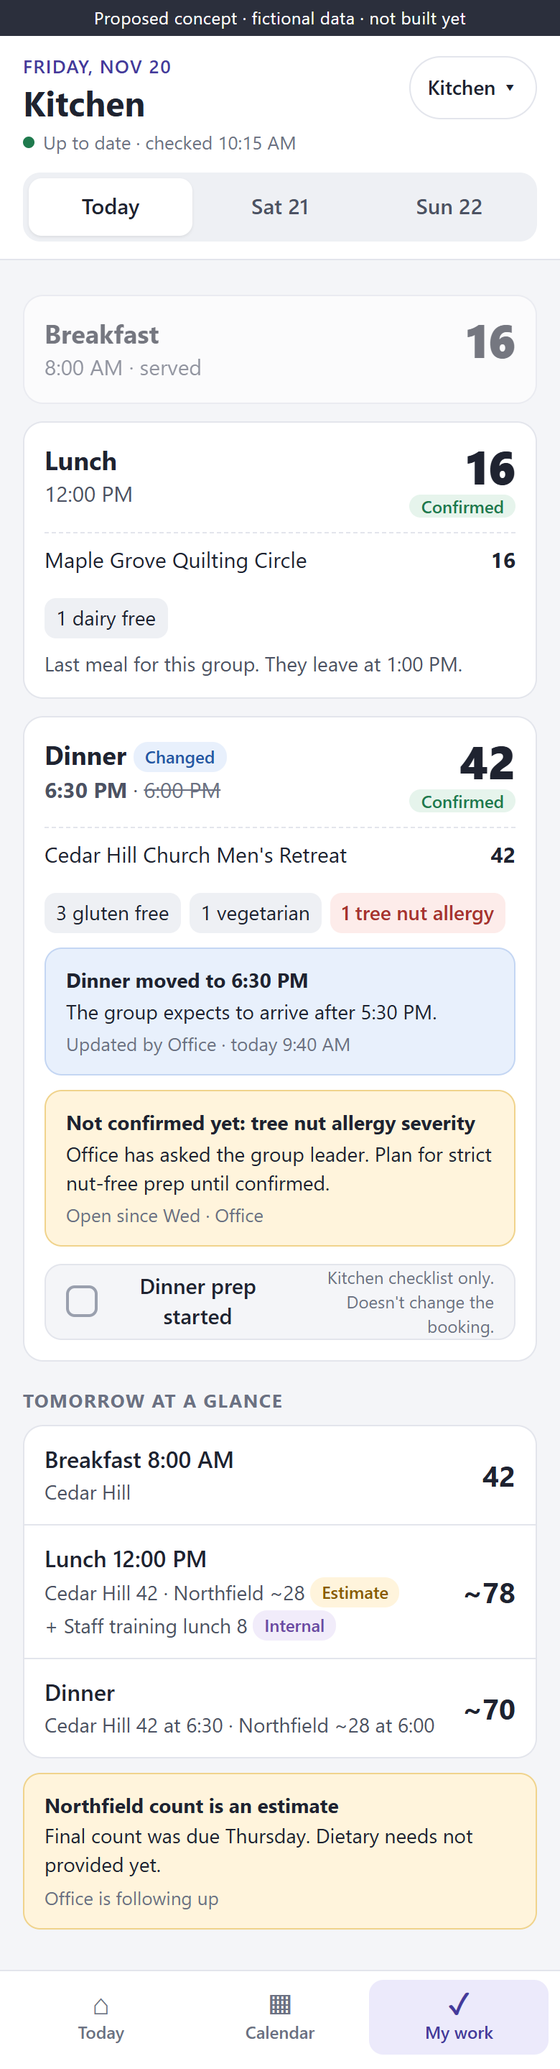
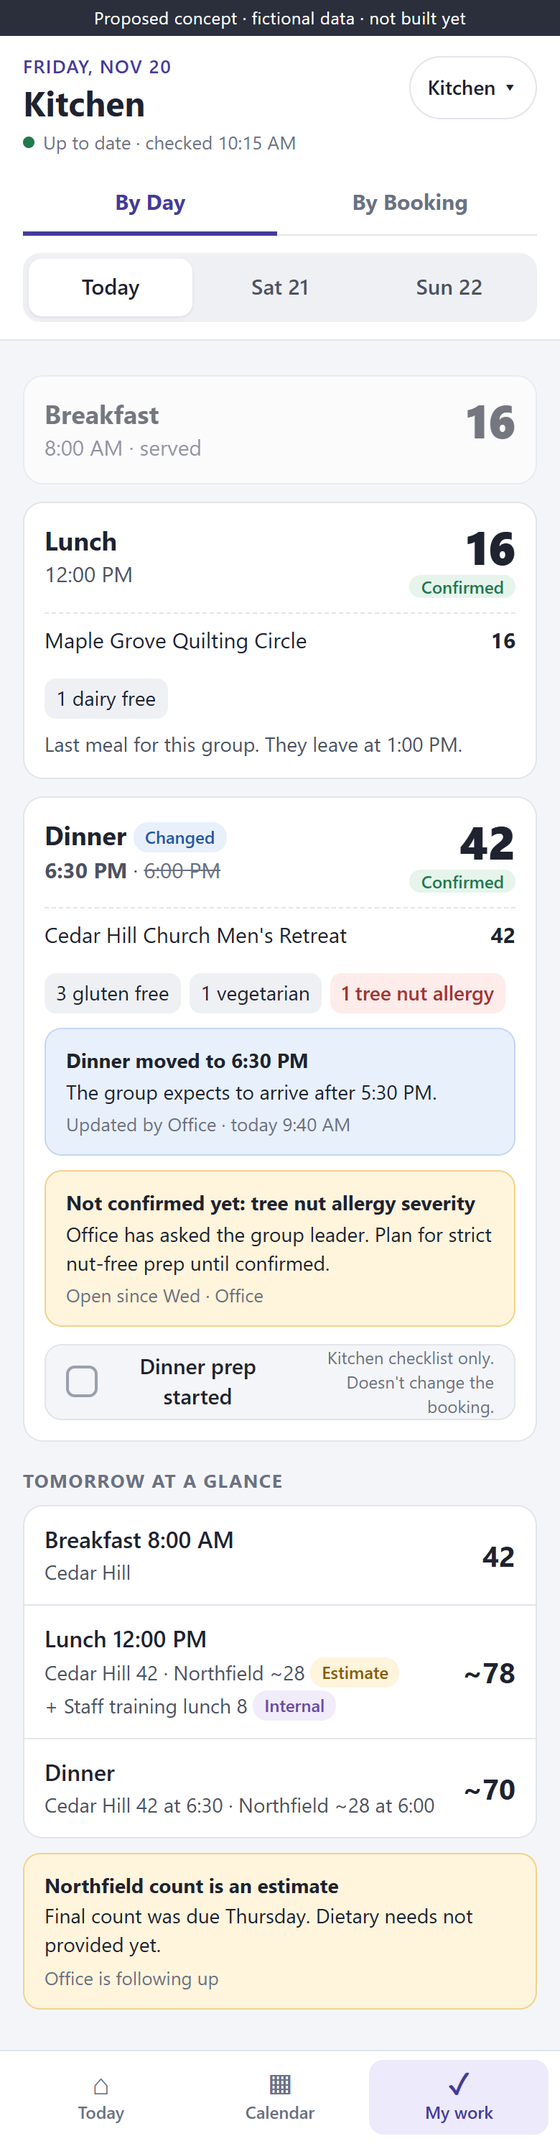
Improve proposal kitchen content

diff --git a/docs/proposals/staff-app-prototype/index.html b/docs/proposals/staff-app-prototype/index.html
@@ -99,6 +99,82 @@
   .facts .v { font-size: 16px; font-weight: 600; margin-top: 2px; }
   .locked { font-size: 13px; color: var(--text-3); margin-top: 14px; padding: 10px 12px; border: 1px dashed var(--line); border-radius: 10px; }
 
+  /* Kitchen view switch: By Day | By Booking */
+  .viewtog { display: flex; gap: 4px; margin-top: 12px; border-bottom: 1px solid var(--line); }
+  .viewtog a { flex: 1; text-align: center; min-height: 44px; display: grid; place-items: center; font-weight: 700; font-size: 15px;
+    color: var(--text-3); text-decoration: none; border-bottom: 3px solid transparent; margin-bottom: -1px; }
+  .viewtog a.on { color: var(--brand); border-bottom-color: var(--brand); }
+
+  /* Kitchen By Booking: reuses Booking Overview's Meals layout (Meal Service Plan table + Dietary Alerts) */
+  .pick { display: grid; grid-template-columns: 1fr 1fr; gap: 8px; }
+  .pick a { display: block; text-decoration: none; color: var(--text); background: var(--card); border: 1px solid var(--line); border-radius: 12px; padding: 10px 12px; min-height: 64px; }
+  .pick a .t { font-weight: 700; font-size: 15px; line-height: 1.25; }
+  .pick a .s { font-size: 13px; color: var(--text-2); margin-top: 2px; }
+  .pick a.on { border: 2px solid var(--brand); background: var(--brand-2); padding: 9px 11px; }
+  .gcard { background: var(--card); border: 1px solid var(--line); border-radius: 14px; padding: 14px; margin-top: 14px; }
+  .gcard h3 { font-size: 20px; line-height: 1.25; margin: 0; }
+  .gcard .stay { font-size: 17px; font-weight: 700; margin-top: 6px; }
+  .gcard .sub { font-size: 14px; color: var(--text-2); margin-top: 2px; }
+  .gcard .kv { display: flex; flex-wrap: wrap; gap: 6px 16px; margin-top: 10px; font-size: 14px; color: var(--text-2); }
+  .gcard .kv b { color: var(--text); }
+  .bo-summary { display: none; }
+  .bo-row { display: flex; flex-direction: column; gap: 12px; margin-top: 12px; }
+  .bo-panel { background: var(--card); border: 1px solid var(--line); border-radius: 14px; padding: 14px; }
+  .bo-panel h4 { margin: 0; font-size: 17px; }
+  .bo-panel .p { margin: 2px 0 10px; font-size: 13px; color: var(--text-3); }
+  .bo-diet { order: -1; border: 2px solid #e6c46f; background: #fffcf5; }
+  .bo-head, .bo-drow { display: grid; grid-template-columns: minmax(0,1fr) 4.5rem; gap: 10px; align-items: center; }
+  .bo-head { font-size: 12px; font-weight: 700; text-transform: uppercase; letter-spacing: .04em; color: #7a8597; padding-bottom: 6px; border-bottom: 1px solid #e8edf3; }
+  .bo-head span:last-child, .bo-drow strong { justify-self: end; }
+  .bo-drow { padding: 10px 0; border-bottom: 1px solid #edf1f5; font-size: 17px; }
+  .bo-drow strong { font-size: 19px; }
+  .bo-drow.allergy { background: var(--red-bg); color: var(--red); font-weight: 700; margin: 0 -8px; padding: 10px 8px; border-radius: 8px; border-bottom: 0; }
+  .bo-drow.allergy .tag { background: var(--red); color: #fff; margin-left: 6px; }
+  .bo-dnote { margin-top: 12px; padding: 10px 12px; border-left: 4px solid #d5a63f; background: #fbf8f1; border-radius: 8px; }
+  .bo-dnote strong { display: block; color: #94681f; font-size: 15px; margin-bottom: 2px; }
+  .bo-dnote p { margin: 0; font-size: 15px; line-height: 1.45; }
+  .bo-table { width: 100%; border-collapse: collapse; table-layout: fixed; }
+  .bo-table th { font-size: 12px; font-weight: 700; text-transform: uppercase; letter-spacing: .03em; color: #7a8597; text-align: center; padding: 6px 2px 8px; border-bottom: 1px solid #e8edf3; vertical-align: bottom; }
+  .bo-table th small { display: block; text-transform: none; letter-spacing: 0; font-size: 13px; color: var(--text); font-weight: 700; margin-top: 2px; }
+  .bo-table th .tag { text-transform: none; letter-spacing: 0; margin-top: 3px; }
+  .bo-table th:first-child, .bo-table td:first-child { text-align: left; width: 26%; }
+  .bo-table td { text-align: center; padding: 10px 2px; border-bottom: 1px solid #edf1f5; font-size: 15px; }
+  .bo-table td:first-child { font-weight: 700; line-height: 1.25; }
+  .bo-table td:first-child .dm span { display: block; font-weight: 500; color: var(--text-2); font-size: 14px; }
+  .bo-table .dd { display: none; }
+  .bo-table tr.today td { background: var(--brand-2); }
+  .chip { display: inline-flex; align-items: center; justify-content: center; min-height: 32px; min-width: 40px; padding: 0 10px; border-radius: 999px; background: #edf3e8; color: #415235; font-weight: 700; font-size: 16px; }
+  .chip.din { background: #f6eddc; color: #8a6622; }
+  .chip .w { display: none; }
+  .dash { color: #9aa3b2; font-weight: 600; }
+  .vh { position: absolute; width: 1px; height: 1px; overflow: hidden; clip: rect(0 0 0 0); white-space: nowrap; }
+  .bo-foot { font-size: 14px; color: var(--text-2); margin-top: 10px; }
+  .bo-notes p { margin: 0; font-size: 15px; }
+  .source { font-size: 13px; color: var(--text-3); margin-top: 14px; padding: 10px 12px; border: 1px dashed var(--line); border-radius: 10px; }
+
+  @media (min-width: 900px) {
+    #kitchen-booking header .inner, #kitchen-booking main { max-width: 1240px; margin: 0 auto; }
+    #kitchen-booking .viewtog { max-width: 360px; }
+    #kitchen-booking header .inner { padding: 0 8px; }
+    #kitchen-booking main { display: grid; grid-template-columns: 280px minmax(0,1fr); gap: 20px; padding: 16px 24px 24px; align-items: start; }
+    #kitchen-booking .pick { grid-template-columns: 1fr; }
+    #kitchen-booking .gcard { margin-top: 0; }
+    #kitchen-booking nav { display: none; }
+    .bo-summary { display: grid; grid-template-columns: 1fr 1fr 1fr 2.2fr; margin-top: 12px; background: var(--card); border: 1px solid var(--line); border-radius: 14px; }
+    .bo-summary > div { padding: 12px 16px; border-left: 1px solid var(--line); }
+    .bo-summary > div:first-child { border-left: 0; }
+    .bo-summary small { display: block; font-size: 13px; font-weight: 600; color: var(--text-3); }
+    .bo-summary strong { font-size: 20px; }
+    .bo-summary span { display: block; font-size: 13px; color: var(--text-2); }
+    .bo-row { display: grid; grid-template-columns: 1.15fr 1fr; align-items: start; }
+    .bo-diet { order: 0; }
+    .bo-table td:first-child { width: 30%; }
+    .bo-table .dm { display: none; } .bo-table .dd { display: inline; }
+    .chip .w { display: inline; } .chip .c { display: none; }
+    .chip { font-size: 14px; }
+    .bo-mobile-only { display: none; }
+  }
+
   nav { position: sticky; bottom: 0; margin-top: 16px; background: var(--card); border-top: 1px solid var(--line); display: flex; padding: 6px 8px 10px; z-index: 3; }
   nav a { flex: 1; text-align: center; text-decoration: none; color: var(--text-3); font-size: 12px; font-weight: 600; min-height: 52px; display: flex; flex-direction: column; align-items: center; justify-content: center; gap: 2px; border-radius: 10px; }
   nav a .g { font-size: 20px; line-height: 1; }
@@ -155,6 +231,7 @@
       <button class="role" type="button">Kitchen ▾</button>
     </div>
     <div class="fresh"><span class="dot"></span>Up to date · checked 10:15 AM</div>
+    <div class="viewtog" role="tablist" aria-label="Kitchen view"><a class="on" href="#kitchen" role="tab" aria-selected="true">By Day</a><a href="#kitchen-booking" role="tab" aria-selected="false">By Booking</a></div>
     <div class="seg"><a class="on" href="#kitchen">Today</a><a href="#kitchen">Sat 21</a><a href="#kitchen">Sun 22</a></div>
   </header>
   <main>
@@ -185,6 +262,98 @@
       <div class="row"><div class="main"><div class="t">Dinner</div><div class="s">Cedar Hill 42 at 6:30 · Northfield ~28 at 6:00</div></div><div class="n">~70</div></div>
     </div>
     <div class="note missing"><b>Northfield count is an estimate</b>Final count was due Thursday. Dietary needs not provided yet.<div class="who">Office is following up</div></div>
+  </main>
+  <nav><a href="#today"><span class="g">⌂</span>Today</a><a href="#calendar"><span class="g">▦</span>Calendar</a><a class="on" href="#kitchen"><span class="g">✓</span>My work</a></nav>
+</section>
+
+<!-- ============ KITCHEN: BY BOOKING ============ -->
+<!-- Same booking record as By Day. Layout follows Booking Overview > Meals (Dashboard.jsx BookingMealsProgramOverview). -->
+<section class="screen" id="kitchen-booking">
+  <div class="concept">Proposed concept · fictional data · not built yet</div>
+  <header>
+    <div class="inner">
+      <div class="top">
+        <div><div class="date">Friday, Nov 20</div><h1>Kitchen</h1></div>
+        <button class="role" type="button">Kitchen ▾</button>
+      </div>
+      <div class="fresh"><span class="dot"></span>Up to date · checked 10:15 AM</div>
+      <div class="viewtog" role="tablist" aria-label="Kitchen view"><a href="#kitchen" role="tab" aria-selected="false">By Day</a><a class="on" href="#kitchen-booking" role="tab" aria-selected="true">By Booking</a></div>
+    </div>
+  </header>
+  <main>
+    <div>
+      <h2 style="margin-top:4px">Upcoming groups</h2>
+      <div class="pick" aria-label="Choose a group">
+        <a href="#kitchen-booking"><div class="t">Maple Grove Quilting Circle</div><div class="s">Wed Nov 18 – Fri Nov 20</div></a>
+        <a class="on" href="#kitchen-booking" aria-current="true"><div class="t">Cedar Hill Church Men's Retreat</div><div class="s">Fri Nov 20 – Sun Nov 22</div></a>
+        <a href="#kitchen-booking"><div class="t">Northfield Youth Group</div><div class="s">Sat Nov 21 – Sun Nov 22</div></a>
+        <a href="#kitchen-booking"><div class="t">Riverside Family Camp</div><div class="s">Fri Nov 27 – Sun Nov 29</div></a>
+      </div>
+    </div>
+
+    <div>
+      <div class="gcard">
+        <h3>Cedar Hill Church Men's Retreat</h3>
+        <div class="stay">Fri, Nov 20 – Sun, Nov 22, 2026</div>
+        <div class="sub">Arrival 5:30 PM · Departure 1:00 PM</div>
+        <div class="kv"><span>Guests <b>42</b> <span class="tag ok">Confirmed</span></span><span>Lodging <b>Bethel, Dothan</b></span></div>
+      </div>
+
+      <div class="bo-summary">
+        <div><small>Total Meals</small><strong>6</strong><span>(Breakfast: 2, Lunch: 2, Dinner: 2)</span></div>
+        <div><small>First Meal</small><strong>Dinner</strong><span>Fri, Nov 20</span></div>
+        <div><small>Last Meal</small><strong>Lunch</strong><span>Sun, Nov 22</span></div>
+        <div><small>Service Times</small><strong style="font-size:18px;white-space:nowrap">8:00 AM · 12:00 PM · 6:30 PM</strong><span>Breakfast · Lunch · Dinner</span></div>
+      </div>
+
+      <div class="bo-row">
+        <div class="bo-panel">
+          <h4>Meal Service Plan</h4>
+          <p class="p">Detailed meal plan for this retreat.</p>
+          <table class="bo-table">
+            <thead><tr>
+              <th>Date</th>
+              <th>Breakfast<small>8:00 AM</small></th>
+              <th>Lunch<small>12:00 PM</small></th>
+              <th>Dinner<small>6:30 PM</small><span class="tag chg">Changed</span></th>
+            </tr></thead>
+            <tbody>
+              <tr class="today"><td><span class="dm">Fri<span>Nov 20</span></span><span class="dd">Fri, Nov 20, 2026</span> <span class="today-pill">Today</span></td>
+                <td><span class="dash" aria-label="No breakfast">—</span></td><td><span class="dash" aria-label="No lunch">—</span></td>
+                <td><span class="chip din"><span class="c" aria-hidden="true">✓</span><span class="w">Dinner</span><span class="vh">Dinner served</span></span></td></tr>
+              <tr><td><span class="dm">Sat<span>Nov 21</span></span><span class="dd">Sat, Nov 21, 2026</span></td>
+                <td><span class="chip"><span class="c" aria-hidden="true">✓</span><span class="w">Breakfast</span><span class="vh">Breakfast served</span></span></td>
+                <td><span class="chip"><span class="c" aria-hidden="true">✓</span><span class="w">Lunch</span><span class="vh">Lunch served</span></span></td>
+                <td><span class="chip din"><span class="c" aria-hidden="true">✓</span><span class="w">Dinner</span><span class="vh">Dinner served</span></span></td></tr>
+              <tr><td><span class="dm">Sun<span>Nov 22</span></span><span class="dd">Sun, Nov 22, 2026</span></td>
+                <td><span class="chip"><span class="c" aria-hidden="true">✓</span><span class="w">Breakfast</span><span class="vh">Breakfast served</span></span></td>
+                <td><span class="chip"><span class="c" aria-hidden="true">✓</span><span class="w">Lunch</span><span class="vh">Lunch served</span></span></td>
+                <td><span class="dash" aria-label="No dinner">—</span></td></tr>
+            </tbody>
+          </table>
+          <div class="bo-foot">Every meal is for <b>42 guests</b> <span class="tag ok">Confirmed</span>. Dinner was 6:00 PM before Office changed it today at 9:40 AM.</div>
+          <div class="bo-foot bo-mobile-only">6 meals · first: Fri dinner · last: Sun lunch</div>
+        </div>
+
+        <div class="bo-panel bo-diet">
+          <h4>Dietary Alerts</h4>
+          <p class="p">Allergen and dietary information for this group.</p>
+          <div class="bo-head"><span>Dietary Item</span><span>Quantity</span></div>
+          <div class="bo-drow allergy"><span>Tree nut allergy <span class="tag">Allergy</span></span><strong>1</strong></div>
+          <div class="bo-drow"><span>Gluten free</span><strong>3</strong></div>
+          <div class="bo-drow"><span>Vegetarian</span><strong>1</strong></div>
+          <div class="bo-dnote"><strong>Additional Dietary Note</strong><p>Tree nut allergy severity not yet confirmed with the group leader. Plan for strict nut-free prep until confirmed.</p></div>
+        </div>
+      </div>
+
+      <div class="bo-panel bo-notes" style="margin-top:12px">
+        <h4>Meal Notes</h4>
+        <p class="p">Important details for food-service coordination.</p>
+        <p>Coffee and tea out by 7:30 AM Saturday. Group will eat Sunday lunch in the dining hall before leaving.</p>
+      </div>
+
+      <div class="source">Read from the Cedar Hill booking: the same record as <b>By Day</b> and the office Booking Overview. Booking last updated today 9:40 AM by Office. Kitchen staff can view this but not edit it.</div>
+    </div>
   </main>
   <nav><a href="#today"><span class="g">⌂</span>Today</a><a href="#calendar"><span class="g">▦</span>Calendar</a><a class="on" href="#kitchen"><span class="g">✓</span>My work</a></nav>
 </section>

diff --git a/docs/proposals/TOAH_NIPI_STAFF_APP_PROPOSAL.md b/docs/proposals/TOAH_NIPI_STAFF_APP_PROPOSAL.md
@@ -2,7 +2,7 @@
 
 *Proposal for discussion. Prepared November 2026.*
 
-In this document, **Available now** means the booking software already does it today. **Proposed** means it is not built yet. **Needs staff input** marks a question for the people who would use it. Every phone screen below is a mockup with fictional data, and the four screenshots of today's software also use fictional data.
+In this document, **Available now** means the booking software already does it today. **Proposed** means it is not built yet. **Needs staff input** marks a question for the people who would use it. Every proposed screen below, on phone or desktop, is a mockup with fictional data, and the four screenshots of today's software also use fictional data.
 
 ---
 
@@ -80,7 +80,7 @@ These responsibility groups are **suggestions to check with staff**, not a descr
 
 | Responsibility | Key information | Useful actions | Practical benefit |
 |---|---|---|---|
-| **Kitchen / cook** | Each meal's time and count, confirmed or estimate; dietary needs as counts; changes | Mark prep started or done (kitchen checklist only) | Next meal count without asking the office |
+| **Kitchen / cook** | Each meal's time and count, confirmed or estimate; dietary needs as counts; changes. Two tabs: **By Day** (every group for a day) and **By Booking** (one group's whole stay, in the Booking Overview layout) | Mark prep started or done (kitchen checklist only) | Next meal count without asking the office |
 | **Housekeeping / turnover** *(later)* | Buildings emptying and filling, turnover window, linens, room split | Mark a building ready | Know which beds to make, and when |
 | **Hosting / program support** | Arrival times, activity times, group leader's needs | Note that something was handled | Fewer last-minute surprises |
 | **Maintenance / setup** | Setup requests by building and time | Mark setup done | Requests found in one place |
@@ -104,7 +104,35 @@ Here is a fictional weekend that runs through every mockup in this document.
 
 <img src="assets/staff-app/proposed-phone-kitchen.png" alt="Proposed phone kitchen view: today's breakfast, lunch and dinner with counts, dietary tags, a changed dinner time, an unconfirmed allergy note, a prep checkbox, and tomorrow at a glance" width="320">
 
-***Proposed concept, not built yet.*** *Fictional data. Meal times and counts come first. Dietary needs appear as counts only. The dinner change and the unconfirmed allergy are hard to miss. "Dinner prep started" is a kitchen checklist item and does not change the booking.*
+***Proposed concept, not built yet.*** *Fictional data. This is the **By Day** kitchen view. Meal times and counts come first. Dietary needs appear as counts only. The dinner change and the unconfirmed allergy are hard to miss. "Dinner prep started" is a kitchen checklist item and does not change the booking. The **By Day | By Booking** switch at the top opens the second kitchen view, described next.*
+
+**The same weekend, one group at a time.** Some cooks plan a whole retreat at once, not one day at a time. For them, the kitchen view has a second tab, **By Booking**. The cook picks an upcoming group and sees its meals in the layout the office already uses in the Booking Overview: a **Meal Service Plan** table (Date, Breakfast, Lunch, Dinner) next to a **Dietary Alerts** panel (Dietary Item, Quantity, and an Additional Dietary Note). Compare it with the Booking Overview screenshot near the top of this document.
+
+- **Choosing a group.** Upcoming groups are listed with their dates. Tapping one shows that group's meals.
+- **Who and when.** A header shows the group name, the retreat dates written out ("Fri, Nov 20 – Sun, Nov 22, 2026"), arrival and departure times, the guest count labelled **Confirmed** or **Estimate**, and the lodging.
+- **The same fields as the office.** Total Meals, First Meal, Last Meal, Service Times, the meal table, Dietary Alerts and Meal Notes all use the same labels, and the same parts of the booking, as the Booking Overview.
+- **Small additions for the kitchen.** Each meal column shows its service time, and today's row is highlighted. A changed time is marked **Changed**, just as in By Day.
+
+<img src="assets/staff-app/proposed-desktop-kitchen-by-booking.png" alt="Proposed desktop kitchen By Booking view: upcoming groups listed on the left; Cedar Hill selected, with retreat dates, a meal summary, the Meal Service Plan table, Dietary Alerts with the tree nut allergy highlighted, and Meal Notes">
+
+***Proposed concept, not built yet.*** *Fictional data, desktop width. By Booking uses the Booking Overview's Meals layout: a summary row, then the Meal Service Plan table and Dietary Alerts side by side, then Meal Notes. Upcoming groups are listed on the left.*
+
+**Adapting the table for a phone.** The office table doesn't fit a 360 px phone without sideways scrolling. The phone version changes how it looks but keeps the same information:
+
+- **Dietary Alerts move above the meal table.** Allergies are the first thing the cook sees after the group's name and dates. The text is larger, and the panel keeps the amber border it has in the Booking Overview.
+- **Allergies stand out.** An allergy row moves to the top of the list and is shown in red with an **Allergy** tag. This is new: today the Booking Overview lists every dietary item the same way. The Additional Dietary Note (for example, "severity not yet confirmed") is always shown in full.
+- **The table keeps its rows and columns.** There is still one row per date and one column per meal. Dates are shortened to two lines ("Sat / Nov 21"). Each column header shows the meal name and its time. A tick means that meal is served and a dash means it isn't, so you can read across a row (one day) or down a column (one meal).
+- **Counts stay connected to meals.** Under the table it says: "Every meal is for 42 guests, Confirmed." The booking stores one guest count for the whole stay, not one for each meal, so the view says that plainly instead of repeating 42 in every cell.
+
+![Proposed kitchen By Booking view shown on three phones: 1, choosing Cedar Hill and seeing its dates, guest count and lodging; 2, Dietary Alerts with the tree nut allergy in red and the additional dietary note in full; 3, the meal table with times in the column headers and today's row highlighted](assets/staff-app/proposed-phone-kitchen-by-booking-framed.png)
+
+***Proposed concept, not built yet.*** *Fictional data. How By Booking would look on a phone as the cook scrolls down: choose the group, read the allergies, then check the meal table. The header and bottom bar stay on screen while scrolling. The full-length screen is below.*
+
+<img src="assets/staff-app/proposed-phone-kitchen-by-booking.png" alt="Proposed phone kitchen By Booking view: By Day and By Booking tabs, four upcoming group cards with Cedar Hill selected, group dates and guest count, Dietary Alerts first with the tree nut allergy in red, then the meal table with ticks, then Meal Notes" width="320">
+
+***Proposed concept, not built yet.*** *Fictional data, 390 px wide, the whole screen from top to bottom. The same Cedar Hill booking as the desktop mockup and the By Day view. A note at the bottom says where the information comes from and that the kitchen can view it but not edit it.*
+
+**One source of truth for both views.** By Day and By Booking are two ways of reading the same booking records, as is the office Booking Overview. Neither view keeps its own copy of meals or dietary needs. When the office moved Cedar Hill's dinner to 6:30 PM, the change appeared in By Day (the dinner card), in By Booking (the Dinner column) and in the office Booking Overview, because all three read the same record. *Needs staff input:* which view should the kitchen open on, and is By Booking more useful on a phone or at a desk?
 
 **Looking ahead to Saturday.** Northfield Youth Group arrives at 11:30 AM. Their final count was due Thursday and hasn't come in, so Saturday lunch shows **~78, estimate** (Cedar Hill 42, Northfield about 28, and a staff training lunch for 8 marked **Internal**).
 
@@ -140,7 +168,7 @@ Here is a fictional weekend that runs through every mockup in this document.
 
 1. The shared *Today at camp* home screen.
 2. A phone-friendly calendar list with group details.
-3. The kitchen view, built from the existing meal plan, meal times, guest counts and dietary information.
+3. The kitchen view, with **By Day** and **By Booking** tabs, built from the existing meal plan, meal times, guest counts and dietary information.
 4. Individual staff accounts with limited access for non-office staff.
 5. Confirmed, Estimate, Missing and Changed labels, plus "last updated" times.
 
@@ -203,7 +231,7 @@ Ways to collect feedback: a two-minute check-in after each pilot weekend, a shar
 1. **The idea (1 min).** One booking, read by everyone. Read the opening section.
 2. **What exists (1 min).** Show the Dashboard and Booking Overview: the information is already there.
 3. **The gap (1 min).** Show the current app on a phone; go through the likely scenarios.
-4. **The weekend story (2 min).** Home, then kitchen (the change and the unconfirmed allergy), then calendar and group details.
+4. **The weekend story (2 min).** Home, then kitchen By Day (the change and the unconfirmed allergy), then By Booking (the familiar meal table), then calendar and group details.
 5. **Safeguards (1 min).** The office owns the booking, staff see only what they need, ticks don't change the booking.
 6. **The ask (1 min).** Discovery, pilot roles, who maintains information and who tests.
 
@@ -216,7 +244,8 @@ Ways to collect feedback: a two-minute check-in after each pilot weekend, a shar
 **Likely new work.**
 
 - A phone layout and routes inside the existing app. The current layout puts the sidebar first on phones.
-- A kitchen aggregation step that combines meal plans and guest counts across groups for each service. Imported bookings keep meals as text, so they need parsing or cleanup.
+- A kitchen aggregation step that combines meal plans and guest counts across groups for each service (By Day). Imported bookings keep meals as text, so they need parsing or cleanup.
+- By Booking can reuse the Booking Overview's Meals code: `BookingMealsProgramOverview` and its parsers `parseBookingMealSummary` and `parseBookingDietarySummary` in `src/pages/Dashboard.jsx`. They read the `meals` and `food_allergies` text plus `raw_data.rentalFormDetails` (meal times, first and last meal, meal notes). Moving them into a shared module, a small refactor, would let both kitchen tabs and the office page use one parser. Dietary items are free text ("3 - Gluten free"), so marking a row as an **Allergy** would depend on its wording or need a new allergy flag in the booking form. That needs a decision before it is built.
 - A change log with who and when.
 - A separate acknowledgment table for department ticks. Today, marking a facility job done saves into the booking record itself (`setFacilityCompletion`), which is the coupling this proposal wants to avoid.
 

diff --git a/docs/proposals/staff-app-prototype/README.md b/docs/proposals/staff-app-prototype/README.md
@@ -9,16 +9,17 @@ Open `index.html` in Chrome, then turn on the device toolbar (F12, then Ctrl+Shi
 | Screen | Add to the address |
 |---|---|
 | Today at camp (shared home) | `#today` |
-| Kitchen | `#kitchen` |
+| Kitchen, By Day | `#kitchen` |
+| Kitchen, By Booking | `#kitchen-booking` (also try a desktop-width window) |
 | Calendar list | `#calendar` |
 | Group details | `#group` |
 | Housekeeping (later phase) | `#housekeeping` |
 
-The bottom bar and the group rows link between screens. The role button, day tabs and checkboxes don't do anything.
+The bottom bar, the group rows and the By Day / By Booking tabs link between screens. In By Booking, every group card shows Cedar Hill. The role button, day tabs and checkboxes don't do anything.
 
 ## How the screenshots were made
 
-- **Proposed screens:** Playwright (the `playwright-core` already in `node_modules`) opened each `#screen` at 390 × 844 with 2× pixel density and took a full-page capture. The script also checked every screen at 360 px for sideways overflow and found none. For the capture only, the sticky bottom bar was placed at the end of the page; on a real phone it stays at the bottom of the screen.
+- **Proposed screens:** Playwright (the `playwright-core` already in `node_modules`) opened each `#screen` at 390 × 844 with 2× pixel density and took a full-page capture. The script also checked every screen at 360 px for sideways overflow and found none. The By Booking desktop mockup was captured the same way at 1440 × 900 with 1× density. The three-phone image (`proposed-phone-kitchen-by-booking-framed.png`) puts `#kitchen-booking` in three 390 × 844 iframes inside drawn phone frames, scrolled to the group, Dietary Alerts and the meal table. The header and bottom bar stay sticky there, as on a real phone. For the capture only, the sticky header and bottom bar were placed in the page flow; on a real phone it stays at the bottom of the screen.
 - **Current-state screens** (`current-*.png`): the real app was run locally with `npx vite`, pointed at a local fake Supabase that served only fictional bookings. All requests that didn't go to localhost were blocked, and the browser clock was fixed to Friday, November 20, 2026, 10:15 AM. Nothing was written to any database. The same approach is described in [../../../tests/browser/README.md](../../../tests/browser/README.md).
 
 The capture scripts were temporary and aren't saved in the repository.
